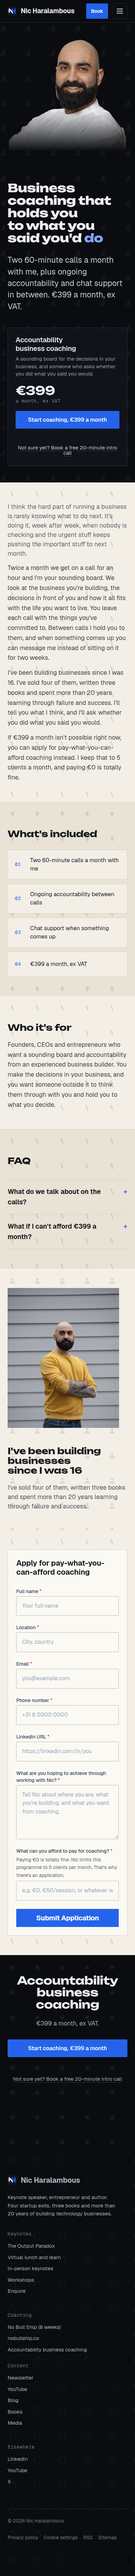
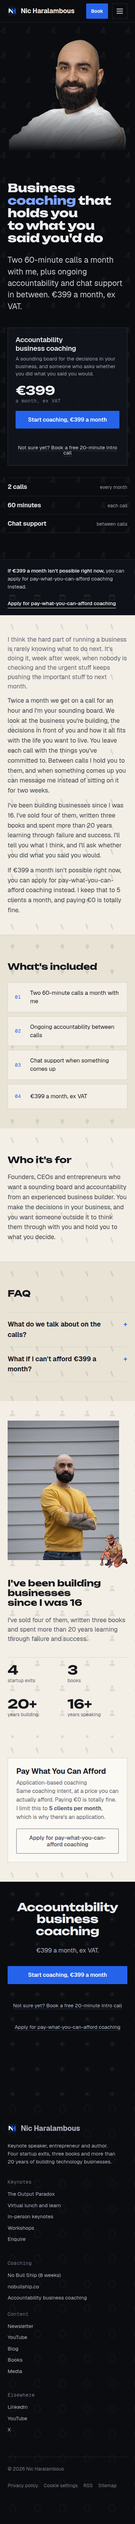
Match the last design pass on nav, coaching, and the meters.
Add a Workshops menu, move the pay-what-you-can form to its own page, highlight the My week comparison column, and use the mockup meter labels.

diff --git a/app/coaching/page.tsx b/app/coaching/page.tsx
@@ -4,7 +4,6 @@ import { CheckoutButton, IntroCallLink } from "@/components/site/checkout-cta";
 import { StickyBookBar } from "@/components/site/sticky-book";
 import { breadcrumbJsonLd } from "@/lib/metadata";
 import { PATHS, coachingJsonLd } from "@/lib/offers";
-import { PwycaForm } from "../session/pwyca-form";
 
 const PATH = PATHS.coaching;
 const URL = `https://www.nicharalambous.com${PATH}`;
@@ -37,7 +36,7 @@ export default function CoachingPage() {
         <div className="wrap">
           <div className="copy">
             <h1 className="long">
-              Business coaching that holds you to what you said you&apos;d <em>do</em>
+              Business <em>coaching</em> that holds you to what you said you&apos;d do
             </h1>
             <p className="say">
               Two 60-minute calls a month with me, plus ongoing accountability and chat support in between. €399 a month, ex VAT.
@@ -58,12 +57,33 @@ export default function CoachingPage() {
                 <IntroCallLink />
               </div>
             </div>
+            <div className="meter">
+              <div>
+                <b>2 calls</b>every month
+              </div>
+              <div>
+                <b>60 minutes</b>each call
+              </div>
+              <div>
+                <b>Chat support</b>between calls
+              </div>
+            </div>
           </div>
           <div className="photo">
             <img className="ph-coach" src="/v3/new/hero-coach-01.webp" alt="Nic Haralambous" />
           </div>
         </div>
       </section>
+      <div className="ip pd-calendar">
+        <div className="wrap">
+          <span>
+            <b>If €399 a month isn&apos;t possible right now,</b> you can apply for pay-what-you-can-afford coaching instead.
+          </span>
+          <a className="link" href="#pwyca" style={{ color: "#fff" }}>
+            Apply for pay-what-you-can-afford coaching
+          </a>
+        </div>
+      </div>
       <section className="p-pen">
         <div className="wrap body-copy">
           <p className="lead">
@@ -132,20 +152,47 @@ export default function CoachingPage() {
         <div className="wrap bio">
           <div className="pic">
             <img src="/v3/new/bio-coach-11.jpg" alt="Nic Haralambous, portrait" width={1000} height={1250} />
+            <img className="px pxb" src="/v3/px/Nic_archeo_16bit.png" alt="" width={182} height={220} />
           </div>
           <div>
             <h2 style={{ margin: "20px 0 22px" }}>I&apos;ve been building businesses since I was 16</h2>
             <p className="lead" style={{ color: "#4b4f5a" }}>
               I&apos;ve sold four of them, written three books and spent more than 20 years learning through failure and success.
             </p>
+            <div className="nums">
+              <div>
+                <b>4</b>
+                <span>startup exits</span>
+              </div>
+              <div>
+                <b>3</b>
+                <span>books</span>
+              </div>
+              <div>
+                <b>20+</b>
+                <span>years building</span>
+              </div>
+              <div>
+                <b>16+</b>
+                <span>years speaking</span>
+              </div>
+            </div>
           </div>
         </div>
       </section>
       <section className="p-pen" id="pwyca">
         <div className="wrap">
           <article className="plain-card">
-            <h2>Apply for pay-what-you-can-afford coaching</h2>
-            <PwycaForm />
+            <h2 style={{ fontSize: 22 }}>Pay What You Can Afford</h2>
+            <p>Application-based coaching</p>
+            <p>
+              Same coaching intent, at a price you can actually afford. Paying €0 is totally fine. I limit this to <b>5 clients per month</b>, which is why there&apos;s an application.
+            </p>
+            <p style={{ marginTop: 20 }}>
+              <a className="btn ghost" href="/coaching/apply">
+                Apply for pay-what-you-can-afford coaching
+              </a>
+            </p>
           </article>
         </div>
       </section>
@@ -158,6 +205,11 @@ export default function CoachingPage() {
               <CheckoutButton id="buy-coaching-final" offer="accountability-coaching" label="Start coaching, €399 a month" />
               <IntroCallLink />
             </div>
+            <p style={{ marginTop: 18, textAlign: "center" }}>
+              <a className="quiet-link" href="/coaching/apply">
+                Apply for pay-what-you-can-afford coaching
+              </a>
+            </p>
           </div>
         </div>
       </section>

diff --git a/components/site/site-nav.tsx b/components/site/site-nav.tsx
@@ -8,8 +8,14 @@ const KEYNOTE_LINKS = [
   { href: OUTPUT_PARADOX_PATH, label: "The Output Paradox" },
   { href: `${OUTPUT_PARADOX_PATH}#formats`, label: "Virtual lunch and learn" },
   { href: `${OUTPUT_PARADOX_PATH}#formats`, label: "In-person keynotes" },
-  { href: "/workshops", label: "Workshops" },
   { href: "/contact", label: "Enquire" },
+];
+
+const WORKSHOP_LINKS = [
+  { href: "/workshops/my-week-with-grok-bot", label: "My week" },
+  { href: "/workshops/team-workflow-upgrade", label: "Team" },
+  { href: "/workshops/executive-workflow-upgrade", label: "Exec" },
+  { href: "/workshops", label: "All workshops" },
 ];
 
 const COACHING_LINKS = [
@@ -29,10 +35,14 @@ const ABOUT_LINKS = [
   { href: "/media", label: "Media and press" },
 ];
 
-type DropName = "keynotes" | "coaching" | "content" | "about";
+type DropName = "keynotes" | "workshops" | "coaching" | "content" | "about";
 
 function isKeynotes(pathname: string) {
-  return pathname.startsWith("/keynotes") || pathname.startsWith("/workshops") || pathname === "/contact";
+  return pathname.startsWith("/keynotes") || pathname === "/contact";
+}
+
+function isWorkshops(pathname: string) {
+  return pathname === "/workshops" || pathname.startsWith("/workshops/");
 }
 
 function isContent(pathname: string) {
@@ -40,7 +50,7 @@ function isContent(pathname: string) {
 }
 
 function isCoaching(pathname: string) {
-  return pathname === "/session" || pathname === "/coaching";
+  return pathname === "/session" || pathname === "/coaching" || pathname.startsWith("/coaching/");
 }
 
 function isAbout(pathname: string) {
@@ -52,6 +62,7 @@ export function SiteNav() {
   const bookHref = bookOfferHref();
   const menuId = useId();
   const keynotesId = useId();
+  const workshopsId = useId();
   const coachingId = useId();
   const contentId = useId();
   const aboutId = useId();
@@ -120,6 +131,7 @@ export function SiteNav() {
 
   function dropPanelId(which: DropName) {
     if (which === "keynotes") return keynotesId;
+    if (which === "workshops") return workshopsId;
     if (which === "coaching") return coachingId;
     if (which === "about") return aboutId;
     return contentId;
@@ -162,6 +174,25 @@ export function SiteNav() {
             <div className="drop-panel" id={keynotesId} role="group" aria-label="Keynotes">
               {KEYNOTE_LINKS.map((link) => (
                 <a key={link.label} href={link.href}>
+                  {link.label}
+                </a>
+              ))}
+            </div>
+          </li>
+          <li className={`drop${openDrop === "workshops" ? " is-open" : ""}${isWorkshops(pathname) ? " on" : ""}`}>
+            <button
+              type="button"
+              className="item-btn"
+              aria-expanded={openDrop === "workshops"}
+              aria-controls={workshopsId}
+              onClick={() => setOpenDrop((current) => (current === "workshops" ? null : "workshops"))}
+              onKeyDown={(event) => onDropKey(event, "workshops")}
+            >
+              Workshops <small aria-hidden="true">▾</small>
+            </button>
+            <div className="drop-panel" id={workshopsId} role="group" aria-label="Workshops">
+              {WORKSHOP_LINKS.map((link) => (
+                <a key={link.href} href={link.href}>
                   {link.label}
                 </a>
               ))}
@@ -274,6 +305,24 @@ export function SiteNav() {
           <div className="sub">
             {KEYNOTE_LINKS.map((link) => (
               <a key={link.label} href={link.href} onClick={() => setMenuOpen(false)}>
+                {link.label}
+              </a>
+            ))}
+          </div>
+        ) : null}
+        <button
+          type="button"
+          className="acc"
+          aria-expanded={mobileGroup === "workshops"}
+          onClick={() => setMobileGroup((current) => (current === "workshops" ? null : "workshops"))}
+        >
+          Workshops
+          <span className="caret" aria-hidden="true">{mobileGroup === "workshops" ? "▴" : "▾"}</span>
+        </button>
+        {mobileGroup === "workshops" ? (
+          <div className="sub">
+            {WORKSHOP_LINKS.map((link) => (
+              <a key={link.href} href={link.href} onClick={() => setMenuOpen(false)}>
                 {link.label}
               </a>
             ))}

diff --git a/app/coaching/apply/page.tsx b/app/coaching/apply/page.tsx
@@ -1,0 +1,35 @@
+import type { Metadata } from "next";
+import { PwycaForm } from "../../session/pwyca-form";
+
+export const metadata: Metadata = {
+  title: "Apply for pay-what-you-can-afford coaching",
+  robots: { index: false, follow: true },
+  alternates: { canonical: "https://www.nicharalambous.com/coaching/apply" },
+};
+
+export default function CoachingApplyPage() {
+  return (
+    <div className="v3 p-person">
+      <section className="top">
+        <div className="wrap">
+          <h1>Apply for pay-what-you-can-afford coaching</h1>
+          <p className="lead">
+            Same coaching intent, at a price you can actually afford. Paying €0 is totally fine. I limit this to 5 clients per month, which is why there&apos;s an application.
+          </p>
+        </div>
+      </section>
+      <section className="p-pen">
+        <div className="wrap">
+          <article className="plain-card">
+            <PwycaForm />
+            <p style={{ marginTop: 24 }}>
+              <a className="link" href="/coaching">
+                Back to accountability business coaching
+              </a>
+            </p>
+          </article>
+        </div>
+      </section>
+    </div>
+  );
+}

diff --git a/components/site/compare-table.tsx b/components/site/compare-table.tsx
@@ -1,5 +1,5 @@
 /** Content Studio comparison. data-col drives the stacked mobile layout. */
-export function CompareTable() {
+export function CompareTable({ highlight }: { highlight?: string }) {
   const cols = ["Lunch and learn", "My week with Grok Bot", "Team Workflow Upgrade Session"] as const;
   const rows: { label: string; cells: string[] }[] = [
     { label: "What it is", cells: ["A talk", "A show-and-tell", "A hands-on workshop"] },
@@ -44,7 +44,9 @@ export function CompareTable() {
           <tr>
             <th />
             {cols.map((col) => (
-              <th key={col}>{col}</th>
+              <th key={col} className={col === highlight ? "hl" : undefined}>
+                {col}
+              </th>
             ))}
           </tr>
         </thead>
@@ -53,7 +55,7 @@ export function CompareTable() {
             <tr key={row.label}>
               <th>{row.label}</th>
               {row.cells.map((cell, index) => (
-                <td key={cols[index]} data-col={cols[index]}>
+                <td key={cols[index]} className={cols[index] === highlight ? "hl" : undefined} data-col={cols[index]}>
                   {cell}
                 </td>
               ))}

diff --git a/app/workshops/executive-workflow-upgrade/page.tsx b/app/workshops/executive-workflow-upgrade/page.tsx
@@ -62,10 +62,10 @@ export default function ExecutiveWorkshopPage() {
                 <b>2 hours</b>one to one
               </div>
               <div>
-                <b>For the CEO</b>your own workflow
+                <b>CEOs</b>and founders running a company
               </div>
               <div>
-                <b>Virtual</b>by default
+                <b>Your week</b>reviewed and upgraded
               </div>
             </div>
           </div>

diff --git a/app/workshops/my-week-with-grok-bot/page.tsx b/app/workshops/my-week-with-grok-bot/page.tsx
@@ -139,7 +139,7 @@ export default function MyWeekPage() {
       <section className="dark pd-calendar" id="formats">
         <div className="wrap">
           <h2 style={{ margin: "20px 0 28px" }}>Talk, show-and-tell or hands-on workshop</h2>
-          <CompareTable />
+          <CompareTable highlight="My week with Grok Bot" />
         </div>
       </section>
       <section className="p-pen">

diff --git a/next-sitemap.config.js b/next-sitemap.config.js
@@ -25,6 +25,7 @@ module.exports = {
   // /session is a meta refresh to /coaching. Index the coaching URL.
   exclude: [
     "/session",
+    "/coaching/apply",
     "/studio",
     "/studio/*",
     "/archive/*",
